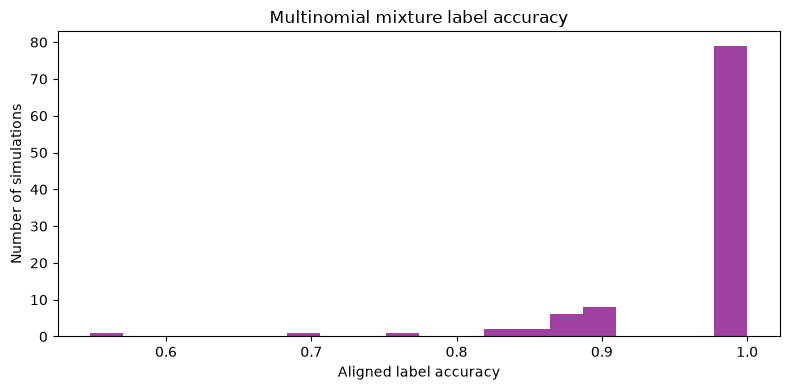
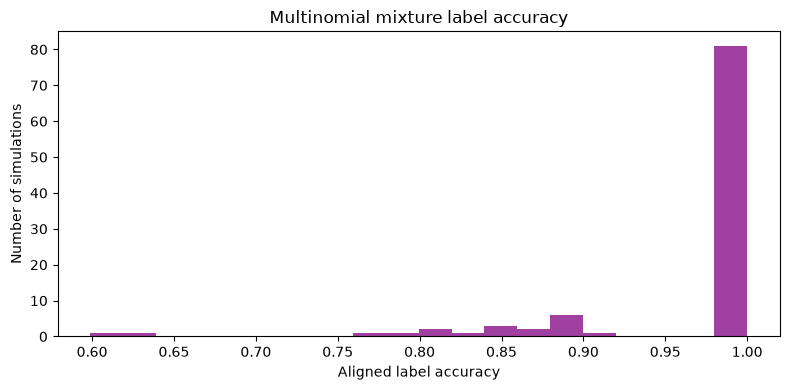
added python notebooks

diff --git a/Python/densmix/docs/examples/multinom-large-scale-1.md b/Python/densmix/docs/examples/multinom-large-scale-1.md
@@ -106,7 +106,7 @@ fit_summary_df = pd.DataFrame(
     {
         "converged": [fit.converged for fit in multinomial_fits],
         "n_iter": [fit.n_iter for fit in multinomial_fits],
-        "profiles_delta": [fit.profiles_delta for fit in multinomial_fits],
+        "loglik_delta": [fit.log_likelihood_delta for fit in multinomial_fits],
     }
 )
 
@@ -136,39 +136,39 @@ fit_summary_df.head()
       <th></th>
       <th>converged</th>
       <th>n_iter</th>
-      <th>profiles_delta</th>
+      <th>loglik_delta</th>
     </tr>
   </thead>
   <tbody>
     <tr>
       <th>0</th>
       <td>True</td>
-      <td>5</td>
-      <td>9.863791e-08</td>
+      <td>6</td>
+      <td>4.256066e-12</td>
     </tr>
     <tr>
       <th>1</th>
       <td>True</td>
-      <td>7</td>
-      <td>6.248687e-07</td>
+      <td>12</td>
+      <td>8.854844e-12</td>
     </tr>
     <tr>
       <th>2</th>
       <td>True</td>
-      <td>5</td>
-      <td>1.274141e-07</td>
+      <td>6</td>
+      <td>2.938545e-11</td>
     </tr>
     <tr>
       <th>3</th>
       <td>True</td>
-      <td>805</td>
-      <td>3.925841e-07</td>
+      <td>7</td>
+      <td>8.543251e-14</td>
     </tr>
     <tr>
       <th>4</th>
       <td>True</td>
-      <td>39</td>
-      <td>9.221711e-07</td>
+      <td>9</td>
+      <td>8.906488e-14</td>
     </tr>
   </tbody>
 </table>
@@ -277,7 +277,7 @@ print(f"Perfectly classified datasets: {np.mean(accuracies == 1):.1%}")
 
     Mean accuracy: 96.8%
     Median accuracy: 100.0%
-    Perfectly classified datasets: 67.0%
+    Perfectly classified datasets: 65.0%
     
 
 ## Component weights
@@ -399,17 +399,17 @@ iteration_quantiles
     
 
 
-    Converged fits: 94.0%
+    Converged fits: 96.0%
     
 
 
 
 
-    minimum      2.0
-    25%          4.0
-    median       5.0
-    75%         12.5
-    maximum    999.0
+    minimum      2.00
+    25%          4.00
+    median       6.00
+    75%         11.25
+    maximum    999.00
     Name: n_iter, dtype: float64
 
 

diff --git a/Python/densmix/docs/examples/multinom-sim-fit-1.md b/Python/densmix/docs/examples/multinom-sim-fit-1.md
@@ -1,4 +1,4 @@
-## One example sim and fir
+## One example sim and fit
 
 
 ```python
@@ -62,8 +62,8 @@ print("Responsibilities shape:", fit.responsibilities.shape)
 ```
 
     Converged: True
-    Iterations: 97
-    Fitted weights: [0.68544777 0.09873072 0.21582151]
+    Iterations: 11
+    Fitted weights: [0.68544881 0.09873076 0.21582042]
     Fitted profile shape: (12, 3)
     Responsibilities shape: (1000, 3)
     
